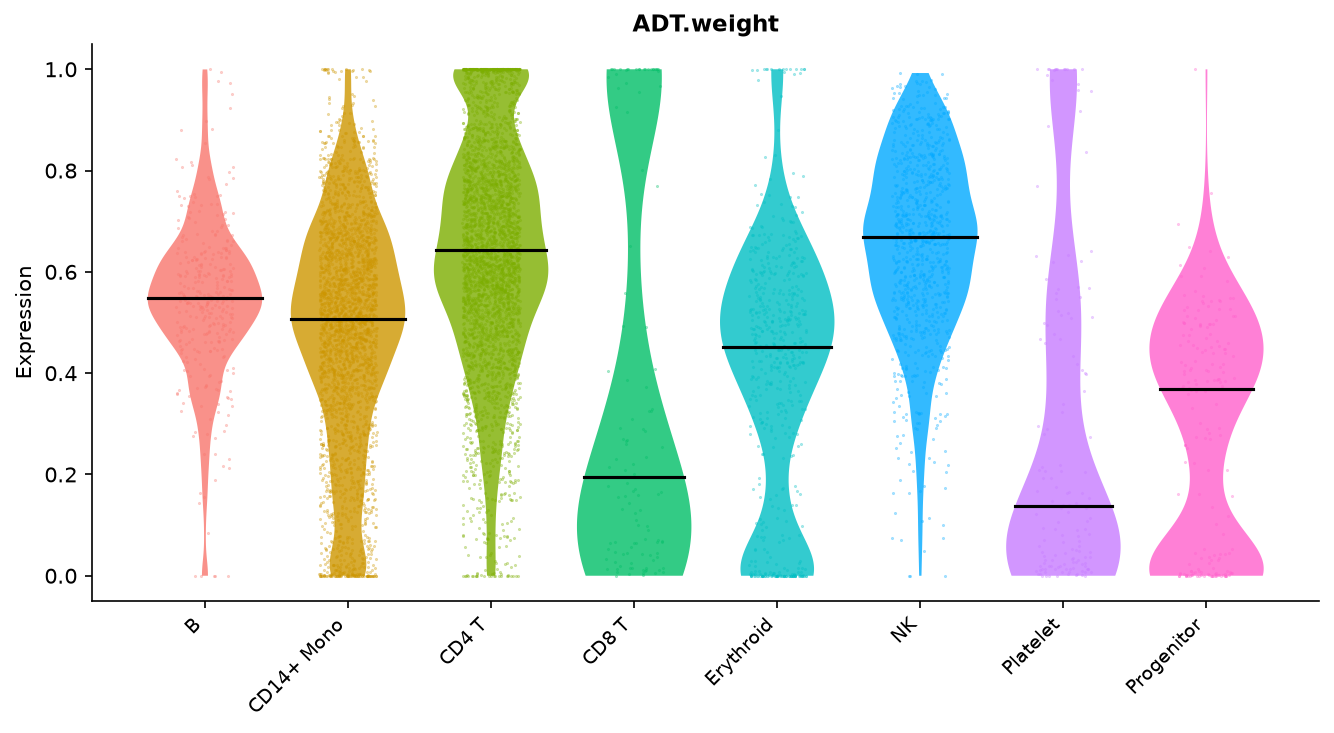
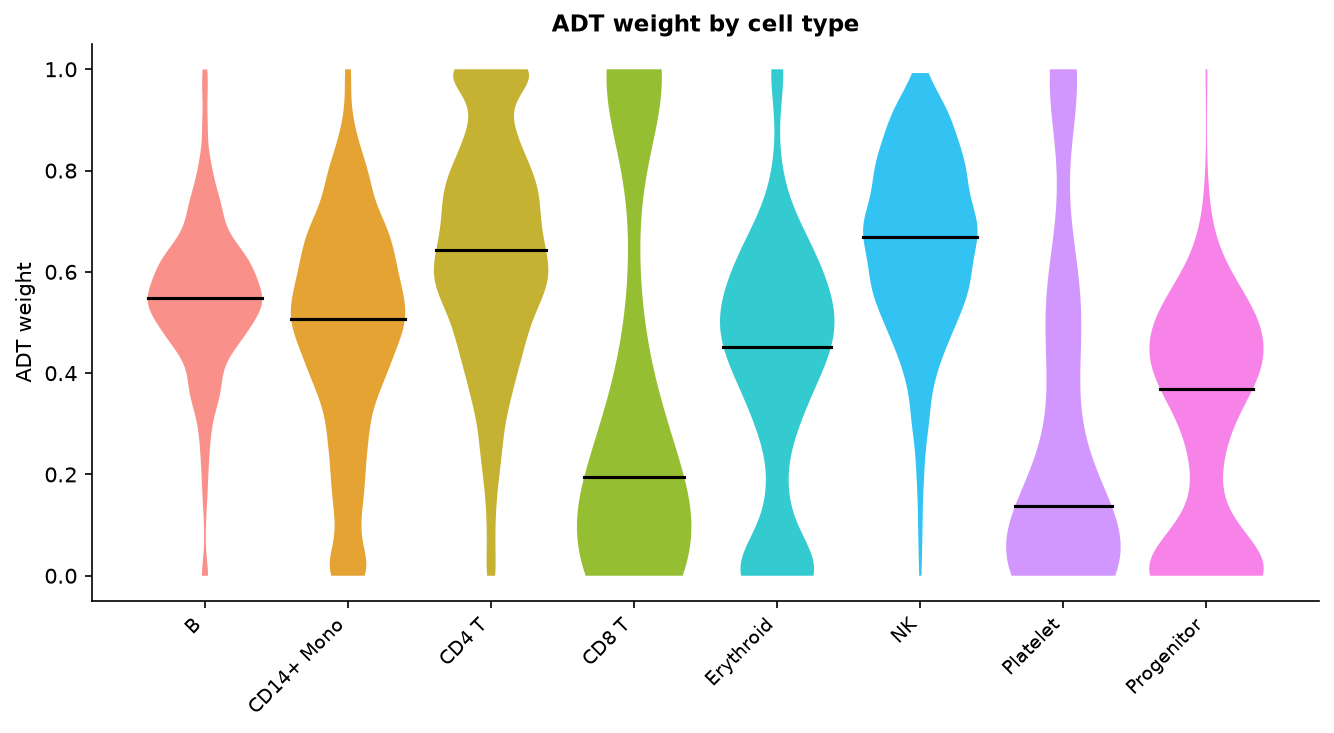
CITE-seq tutorial: draw the ADT-weight violins as one comparison
Reviewer 2 of the Frontiers paper (major comment 4) found R's and
Truecell's figure 10 in different orders and colours, which defeats the
side-by-side the paper prints as Figure 3C/D.

Both scripts now take the group order and colours from one list,
CELL_TYPES in cbmc_citeseq_tutorial.py: every label annotate_cells can
return, in vln_plot's order. Colours come from Seurat's hue_pal over all
twelve (truecell.hue_pal(12) matches scales::hue_pal()(12) exactly), so
the 69-cell DC / Mono cluster that only R's clustering finds moves no
other colour. Neither side draws points. The R script adds the median
bar vln_plot draws, across each violin at its median, and the titles
and y-axis labels match.

R also writes r_10_adt_weight_by_celltype_manuscript.png, laid out at
the 3.30 in the paper prints it, with the same 1350 x 750 pixels. Saved
with Seurat's default type sizes, that copy overprinted its y-axis
labels and squashed the violins, so its type is set to the sizes
Truecell's panel prints at.

Drawing only. The CITE-seq --report is identical before and after, and
every other R and Python figure regenerated byte-identical. The label
lists are guarded, and all six mutations tried were caught. The smoke
suite checks the figure's layout at full size, at 0.55 and at 3.30 in.

diff --git a/tests/test_multimodal_tutorial.py b/tests/test_multimodal_tutorial.py
@@ -5,7 +5,9 @@ signal and checks the combined protein-priority / RNA-fallback gating in
 annotate_cells(), the run_wnn() joint-clustering flow, and the figures the
 walkthrough's Step 8 embeds. Network-free.
 """
+import ast
 import json
+import re
 import sys
 from pathlib import Path
 
@@ -24,9 +26,12 @@ from truecell.preprocessing import (  # noqa: E402
     normalize_data, find_variable_features, scale_data,
 )
 from truecell.reduction import run_pca  # noqa: E402
-from truecell.plotting import dim_plot, vln_plot  # noqa: E402
-from tutorials.cbmc_citeseq_tutorial import annotate_cells, run_wnn  # noqa: E402
-from tutorials.generate_multimodal_plots import _group_panel  # noqa: E402
+from truecell.plotting import dim_plot, hue_pal, vln_plot  # noqa: E402
+from truecell._utils import ident_sort_key
+from tutorials.cbmc_citeseq_tutorial import CELL_TYPES, annotate_cells, run_wnn  # noqa: E402
+from tutorials.generate_multimodal_plots import _group_panel, adt_weight_violins  # noqa: E402
+
+TUTORIALS = Path(__file__).resolve().parent.parent / "tutorials"
 
 
 def _two_assay_object(rna_levels, adt_levels, n=6):
@@ -206,6 +211,112 @@ def test_group_panel_colours_labels_consistently():
     assert axes[0].get_legend() is None
     assert [t.get_text() for t in axes[1].get_legend().get_texts()] == ["A", "B"]
     plt.close(fig)
+
+
+# ---------------------------------------------------------------------------
+# Figure 10 is an R | Truecell pair
+# ---------------------------------------------------------------------------
+# Reviewer 2 of the Frontiers paper found R's and Truecell's ADT-weight violins
+# in different orders and colours. Both scripts now take both from CELL_TYPES.
+
+def _strings(node):
+    return {c.value for c in ast.walk(node)
+            if isinstance(c, ast.Constant) and isinstance(c.value, str)}
+
+
+def _python_labels():
+    """Every label the Python annotate_cells can return, read from its source."""
+    import tutorials.cbmc_citeseq_tutorial as tutorial
+
+    tree = ast.parse(Path(tutorial.__file__).read_text())
+    func = next(node for node in ast.walk(tree)
+                if isinstance(node, ast.FunctionDef) and node.name == "annotate_cells")
+    labels = set(tutorial._RNA_FALLBACK)
+    for node in ast.walk(func):
+        if not isinstance(node, ast.Assign):
+            continue
+        target = node.targets[0]
+        # assignment[c] = "B", or = "CD8 T" if cd8 > 1.0 else "CD4 T"
+        if isinstance(target, ast.Subscript) and getattr(target.value, "id", None) == "assignment":
+            labels |= _strings(node.value)
+        # rna_fallback's default: best, best_score = "Other", 0.30
+        if isinstance(target, ast.Tuple) and any(getattr(e, "id", None) == "best"
+                                                 for e in target.elts):
+            labels |= _strings(node.value)
+    return labels
+
+
+def _r_source():
+    return (TUTORIALS / "cbmc_citeseq_verify.R").read_text()
+
+
+def _r_labels():
+    """Every label the R port of annotate_cells can return, read from its source."""
+    text = _r_source()
+    fallback = text[text.index("RNA_FALLBACK <- list("):text.index("annotate_cells <- function")]
+    labels = set(re.findall(r"(\w+) = c\(", fallback))
+    for line in text.splitlines():
+        if "assignment[c] <-" in line:        # the gene names sit left of the arrow
+            labels |= set(re.findall(r'"([^"]+)"', line.split("assignment[c] <-", 1)[1]))
+    return labels | set(re.findall(r'best <- "([^"]+)"', text))
+
+
+def test_both_scripts_draw_the_violins_from_one_list():
+    """R keeps its own copy of CELL_TYPES, since it cannot import Python's. A copy
+    edited on one side only would put the two panels out of step again."""
+    text = _r_source()
+    block = text[text.index("CELL_TYPES <- c("):]
+    assert re.findall(r'"([^"]+)"', block[:block.index(")")]) == list(CELL_TYPES)
+
+
+def test_the_list_is_in_the_order_vln_plot_draws_groups():
+    """vln_plot sorts its groups and matches the palette to them by position, and
+    R draws in the list's order, so the list has to be vln_plot's order already."""
+    assert list(CELL_TYPES) == sorted(CELL_TYPES, key=ident_sort_key)
+    assert len(set(CELL_TYPES)) == len(CELL_TYPES)
+
+
+def test_the_list_is_every_label_annotate_cells_can_return():
+    """The colours are spread over the whole list, so a type one side lacks keeps
+    its slot. A label missing from it would stop the R script, and one that
+    annotate_cells can no longer return would shift every colour after it."""
+    assert _python_labels() == set(CELL_TYPES)
+    assert _r_labels() == set(CELL_TYPES)
+
+
+def _weights_by_type(labels, seed=0):
+    rng = np.random.default_rng(seed)
+    obj = create_truecell_object(
+        counts=sp.csc_matrix(rng.poisson(2.0, size=(5, len(labels))).astype(float)),
+        feature_names=[f"g{i}" for i in range(5)],
+        cell_names=[f"c{i}" for i in range(len(labels))])
+    obj.meta_data["protein_celltype"] = labels
+    obj.meta_data["ADT.weight"] = rng.uniform(0.0, 1.0, size=len(labels))
+    return obj
+
+
+def test_adt_weight_violins_keep_each_type_in_its_colour_slot():
+    """Three of the twelve types: drawn in list order, each in the colour its place
+    in the whole list gives it, with no points and the paired titles."""
+    import matplotlib.pyplot as plt
+    from matplotlib.colors import to_hex
+
+    fig = adt_weight_violins(_weights_by_type(["pDC", "B", "NK"] * 10))
+    ax = fig.axes[0]
+    present = ["B", "NK", "pDC"]
+    assert [t.get_text() for t in ax.get_xticklabels()] == present
+    # One filled violin per type and nothing else: points would add collections.
+    palette = hue_pal(len(CELL_TYPES))
+    assert [to_hex(c.get_facecolor()[0]) for c in ax.collections] == \
+        [palette[CELL_TYPES.index(g)].lower() for g in present]
+    assert ax.get_title() == "ADT weight by cell type"
+    assert ax.get_ylabel() == "ADT weight"
+    plt.close(fig)
+
+
+def test_adt_weight_violins_refuse_a_type_outside_the_list():
+    with pytest.raises(ValueError, match="Mystery"):
+        adt_weight_violins(_weights_by_type(["B", "Mystery"] * 10))
 
 
 # ----------------------------------------------------------------------

diff --git a/tutorials/generate_multimodal_plots.py b/tutorials/generate_multimodal_plots.py
@@ -21,9 +21,9 @@ _ROOT = Path(__file__).parent.parent
 if str(_ROOT) not in sys.path:
     sys.path.insert(0, str(_ROOT))
 
-from tutorials.cbmc_citeseq_tutorial import run_full
+from tutorials.cbmc_citeseq_tutorial import CELL_TYPES, run_full
 from truecell.plotting import (
-    dim_plot, feature_plot, ridge_plot, feature_scatter, vln_plot,
+    dim_plot, feature_plot, ridge_plot, feature_scatter, hue_pal, vln_plot,
     _get_expression, _get_embedding, _palette,
 )
 
@@ -90,6 +90,36 @@ def _group_panel(ax, emb, labels, title, legend=False):
         s.set_visible(False)
 
 
+def adt_weight_violins(obj):
+    """The learned ADT weight per cell type (figure 10), drawn to pair with R's.
+
+    Reviewer 2 of the Frontiers paper found the R and Truecell panels in
+    different orders and colours, which defeats a side-by-side. Both scripts now
+    draw the groups in CELL_TYPES order, which is vln_plot's own, and colour each
+    type from Seurat's hue_pal over all of CELL_TYPES, so a type only one side
+    finds leaves every other colour where it was. Neither draws points, and
+    cbmc_citeseq_verify.R adds the median bar vln_plot draws. Its own function
+    so the smoke suite checks the layout of the figure this script saves.
+    """
+    labels = set(obj.meta_data["protein_celltype"].astype(str))
+    unknown = labels - set(CELL_TYPES)
+    if unknown:
+        raise ValueError(f"cell types missing from CELL_TYPES: {sorted(unknown)}")
+    colours = dict(zip(CELL_TYPES, hue_pal(len(CELL_TYPES))))
+    present = [g for g in CELL_TYPES if g in labels]
+    fig = vln_plot(obj, "ADT.weight", group_by="protein_celltype", pt_size=0,
+                   palette=[colours[g] for g in present], figsize=(9, 5))
+    ax = fig.axes[0]
+    # vln_plot matches the palette to its groups by position, so check it drew
+    # them in the order the colours were listed in.
+    drawn = [t.get_text() for t in ax.get_xticklabels()]
+    if drawn != present:
+        raise ValueError(f"vln_plot drew {drawn}, coloured for {present}")
+    ax.title.set_text("ADT weight by cell type")
+    ax.set_ylabel("ADT weight")
+    return fig
+
+
 def main(data_dir=None):
     obj, all_markers, anno = run_full(data_dir=data_dir, verbose=False)
     print("\nGenerating multimodal figures...")
@@ -146,8 +176,7 @@ def main(data_dir=None):
     # 10. The learned per-cell modality weights, read as a metadata "feature".
     # Seurat's WNN vignette plots RNA.weight; ADT.weight is 1 - RNA.weight, and
     # reads more directly as "how much this cell leans on protein".
-    _save(vln_plot(obj, "ADT.weight", group_by="protein_celltype", figsize=(9, 5)),
-          "10_adt_weight_by_celltype.png")
+    _save(adt_weight_violins(obj), "10_adt_weight_by_celltype.png")
 
     print(f"\nAll multimodal figures saved to {FIGURES}/")
 

diff --git a/tests/test_tutorial_smoke.py b/tests/test_tutorial_smoke.py
@@ -458,6 +458,33 @@ def test_pbmc3k_labelled_umap_is_laid_out_cleanly():
         plt.close(fig)
 
 
+def test_cbmc_adt_weight_violins_are_laid_out_cleanly():
+    """The CITE-seq tutorial's figure 10 is the Truecell half of an R | Truecell
+    pair in the Frontiers paper, which prints each panel 3.30 in wide. Checked on
+    the real data at the tutorial's size, at 0.55, and at that width."""
+    if not (DATA_ROOT / "cbmc").is_dir():
+        pytest.skip("dataset 'cbmc' not cached")
+
+    import matplotlib.pyplot as plt
+
+    sys.path.insert(0, str(REPO_ROOT))
+    sys.path.insert(0, str(REPO_ROOT / "tests"))
+    import _layout
+
+    from tutorials.cbmc_citeseq_tutorial import run_full
+    from tutorials.generate_multimodal_plots import adt_weight_violins
+
+    obj, _, _ = run_full(verbose=False)
+    for scale in (1.0, _layout.MANUSCRIPT_SCALE, 3.30 / 9):
+        fig = adt_weight_violins(obj)
+        try:
+            if scale != 1.0:
+                _layout.shrink(fig, scale)
+            assert _layout.check_layout(fig) == [], f"at {scale:.2f} of its size"
+        finally:
+            plt.close(fig)
+
+
 def test_pbmc3k_variable_feature_names_are_laid_out_cleanly():
     """The ten gene names crowd the top of the plot, where vst's clip stacks the
     most variable genes. Unrepelled they overlapped, and the first repelled

diff --git a/tutorials/cbmc_citeseq_tutorial.py b/tutorials/cbmc_citeseq_tutorial.py
@@ -146,6 +146,18 @@ _RNA_FALLBACK = {
     "Cycling":   ["STMN1", "MKI67", "TUBB"],
 }
 
+# Every label annotate_cells can return, in the order vln_plot draws groups:
+# plain string order, which puts "pDC" last. The ADT-weight violins are an R |
+# Truecell pair, so cbmc_citeseq_verify.R draws its groups in this order too and
+# takes one colour per label from Seurat's hue_pal over all twelve. A type one
+# side lacks then keeps its colour slot: R's clustering finds a DC / Mono cluster
+# that Truecell's folds into CD14+ Mono, and no other colour moves because of it.
+# tests/test_multimodal_tutorial.py holds the R copy of this list to this one.
+CELL_TYPES = (
+    "B", "CD14+ Mono", "CD4 T", "CD8 T", "Cycling", "DC / Mono", "Erythroid",
+    "NK", "Other", "Platelet", "Progenitor", "pDC",
+)
+
 
 def annotate_cells(obj):
     """Annotate RNA clusters using surface protein first, RNA as a fallback.

diff --git a/tests/test_plotting_theme.py b/tests/test_plotting_theme.py
@@ -58,6 +58,10 @@ _R_HUE_PAL = {
         "#00BFC4", "#00A9FF", "#C77CFF", "#FF61CC"],
     9: ["#F8766D", "#D39200", "#93AA00", "#00BA38", "#00C19F",
         "#00B9E3", "#619CFF", "#DB72FB", "#FF61C3"],
+    # The CITE-seq tutorial's violins colour its twelve possible cell types from
+    # this one, in R and in Python alike (R 4.6.1, scales 1.4).
+    12: ["#F8766D", "#DE8C00", "#B79F00", "#7CAE00", "#00BA38", "#00C08B",
+         "#00BFC4", "#00B4F0", "#619CFF", "#C77CFF", "#F564E3", "#FF64B0"],
 }
 
 

diff --git a/CHANGELOG.md b/CHANGELOG.md
@@ -18,6 +18,22 @@ and this project adheres to [Semantic Versioning](https://semver.org/spec/v2.0.0
 
 ## [Unreleased]
 
+### Fixed
+
+- **The CITE-seq tutorial's ADT-weight violins read as one comparison.** Reviewer 2
+  of the Frontiers paper found R's and Truecell's panels of figure 10 in different
+  orders and colours, which defeats a side-by-side. Both scripts now draw the cell
+  types in one order, `vln_plot`'s, and colour each from Seurat's `hue_pal` over
+  all twelve labels `annotate_cells` can return. The DC / Mono cluster that only R's
+  clustering finds therefore moves no other colour. Neither draws points, the R
+  script adds the median bar `vln_plot` draws, and the titles and y-axis labels
+  match. The CITE-seq comparison's numbers do not change.
+  - R also writes `r_10_adt_weight_by_celltype_manuscript.png`, laid out 3.30 in
+    wide as the paper prints it, with its type at the sizes Truecell's panel prints
+    at. With Seurat's defaults at that width the y-axis labels overprinted.
+  - `tests/test_multimodal_tutorial.py` keeps the two scripts' label lists equal,
+    and the smoke suite checks the figure's layout at the width the paper uses.
+
 ## [2.0.0] - 2026-09-18
 
 The release the Frontiers revision asked for. Re-running the paper against 1.2.0

diff --git a/tutorials/multimodal_citeseq.md b/tutorials/multimodal_citeseq.md
@@ -469,8 +469,17 @@ description of a typical cell:
 </tr>
 </table>
 
+The two panels are drawn to be read against each other. Both put the cell types in
+the same order and give each one the same colour, taken from Seurat's `hue_pal`
+over all twelve labels `annotate_cells` can return. Both mark the median, which
+`vln_plot` always draws and the R script adds, and neither draws points. R has one
+more violin: its clustering finds a 69-cell **DC / Mono** cluster, and Truecell's
+puts the same 69 cells in CD14+ Mono. The colours are spread over the whole list,
+so the type Truecell lacks moves no other colour.
+
 > `ADT.weight` is a metadata column, not a gene, but `vln_plot` resolves it the
-> same way Seurat's `VlnPlot` does — hence the generic `Expression` y-axis label.
+> same way Seurat's `VlnPlot` does. Both panels label the axis `ADT weight` rather
+> than the generic `Expression`.
 
 > The whole flow is wrapped as `run_wnn(obj)` in
 > [`cbmc_citeseq_tutorial.py`](cbmc_citeseq_tutorial.py); `run_full()` prints the
